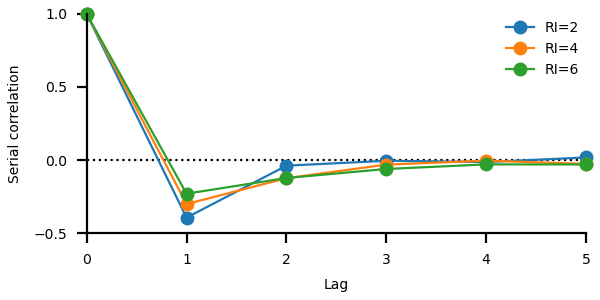
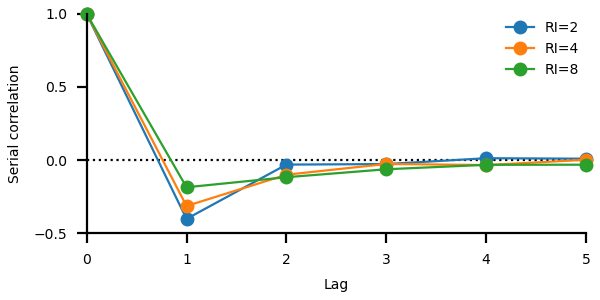
baseline stats description

Changed region(s): [[0.18, 0.18, 0.99, 0.75], [0.15, 0.09, 0.18, 0.18], [0.93, 0.21, 0.96, 0.24]]

diff --git a/lifac/lifac.py b/lifac/lifac.py
@@ -159,11 +159,11 @@ def baseline_activity(s, tmax, model, **kwargs):
     spikes: 1D arrays of floats
         The spike times.
     """
-    dt = 0.0001               # integration time step in seconds
+    dt = 0.0001                         # integration time step in seconds
     time = np.arange(0.0, tmax, dt)
     stimulus = np.zeros(len(time)) + s
     spikes, _, _ = model(time, stimulus, **kwargs)
-    return spikes
+    return spikes[spikes > 1.0] - 1.0   # steady-state only
 
     
 def plot_lifac_trial(ax, time, stimulus):
@@ -247,16 +247,16 @@ def plot_isih(ax, spikes, labels=[]):
         For each trial a label describing the condition.
     """
     tfac = 1000.0             # plots in milliseconds
-    bw = 0.0005               # bin width in milliseconds
+    bw = 0.0005               # bin width in seconds
     for spks, l in zip(spikes, labels):
         isis = np.diff(spks)
         bins = np.arange((np.min(isis)//bw)*bw, (np.max(isis)//bw+1)*bw, bw)
-        ax.hist(tfac*isis, tfac*bins, label=l)
-    ax.set_xlabel('ISI')
-    ax.set_ylabel('Count')
+        ax.hist(tfac*isis, tfac*bins, density=True, label=l)
+    ax.set_xlabel('ISI [ms]')
+    ax.set_ylabel('pdf [kHz]')
     ax.legend()
 
-
+ 
 def plot_serial_correlation(ax, spikes, labels=[], max_lag=5):
     """ Serial correlations of interspike intervals for each trial.
 

diff --git a/lifac/lifacplots.py b/lifac/lifacplots.py
@@ -110,13 +110,13 @@ def baseline_activity(s, tmax):
     time = np.arange(0.0, tmax, dt)
     stimulus = np.zeros(len(time)) + s
     spikes, _, _ = la.lifac(time, stimulus)
-    return spikes
+    return spikes[spikes > 1.0] - 1.0   # steady-state only
 
 
 def plot_isih(spikes, labels=[]):
     fig, ax = plt.subplots(figsize=(figwidth, 0.5*figwidth))
     tfac = 1000.0             # plots in milliseconds
-    bw = 0.0005               # bin width in milliseconds
+    bw = 0.0004               # bin width in seconds
     for spks, l in zip(spikes, labels):
         isis = np.diff(spks)
         bins = np.arange((np.min(isis)//bw)*bw, (np.max(isis)//bw+1)*bw, bw)
@@ -157,7 +157,7 @@ if __name__ == "__main__":
     plot_lifac_fIcurves()
     """
     # baseline statistics:
-    inputs = [2.0, 4.0, 6.0]
+    inputs = [2.0, 4.0, 8.0]
     spikes = [baseline_activity(s, 200.0) for s in inputs]
     labels = ['RI=%g' % s for s in inputs]
     plot_isih(spikes, labels)

diff --git a/lifac/README.md b/lifac/README.md
@@ -177,7 +177,7 @@ for i, stim in enumerate(inputs):
     fss[i] = np.mean(frate[(ratetime>0.35) & (ratetime<0.45)])
 ```
 
-For adapted *f-I* curves the neuron needs to be preadapted to some
+For an adapted *f-I* curves the neuron needs to be preadapted to some
 stimulus value, and then the onset response to a range of inputs is
 measured. For this we need to know the steady-state response right
 before the onset of the test stimulus (`baserate`). The onset response
@@ -203,8 +203,30 @@ for i, stim in enumerate(inputs):
 
 ## Baseline statistics
 
+From the steady-state response to some stimulus you can compute
+interspike-interval histograms.
+
+``` py
+tmax = 200.0
+time = np.arange(0.0, tmax, dt)
+stimulus = np.zeros(len(time)) + 2.0
+spikes, _, _ = la.lifac(time, stimulus)
+isis = np.diff(spikes[spikes>1.0])  # analyse steady-state only
+bw = 0.0005                         # bin width in seconds
+bins = np.arange((np.min(isis)//bw)*bw, (np.max(isis)//bw+1)*bw, bw)
+ax.hist(tfac*isis, tfac*bins, density=True, label=l)
+```
 
 ![ficurves](lifac-isih.png)
+
+Or the serial correlation between successive interspike intervals at various lags:
+
+``` py
+max_lag = 5
+lags = np.arange(0, max_lag+1)
+scorr = [1.0] + [np.corrcoef(isis[k:], isis[:-k])[1,0] for k in lags[1:]]
+ax.plot(lags, scorr, '-o')
+```
 
 ![ficurves](lifac-isicorr.png)
 
